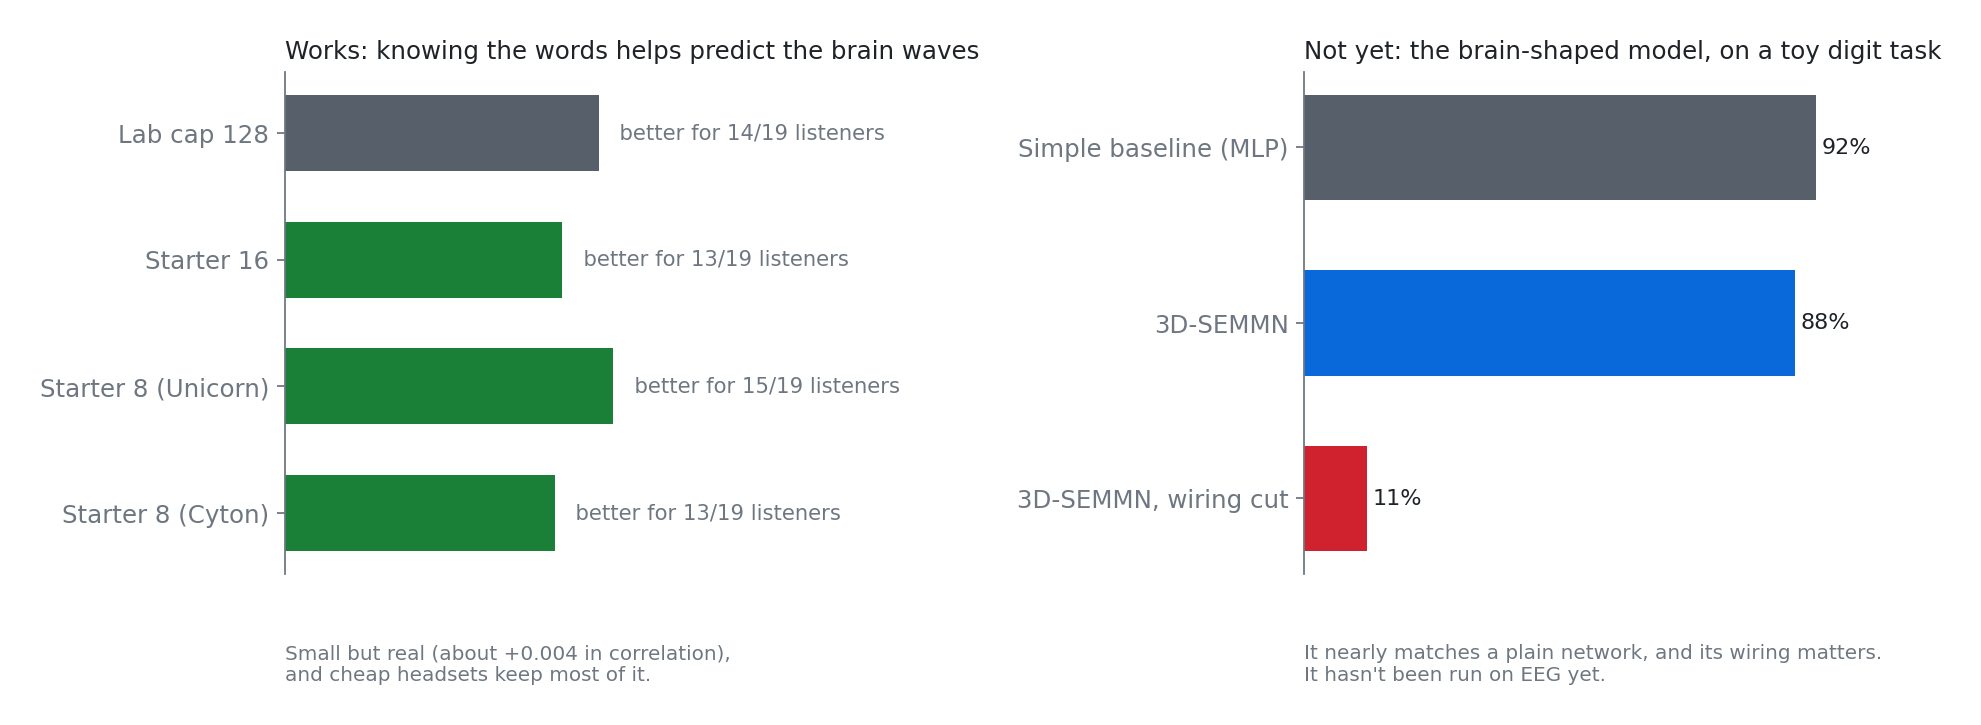
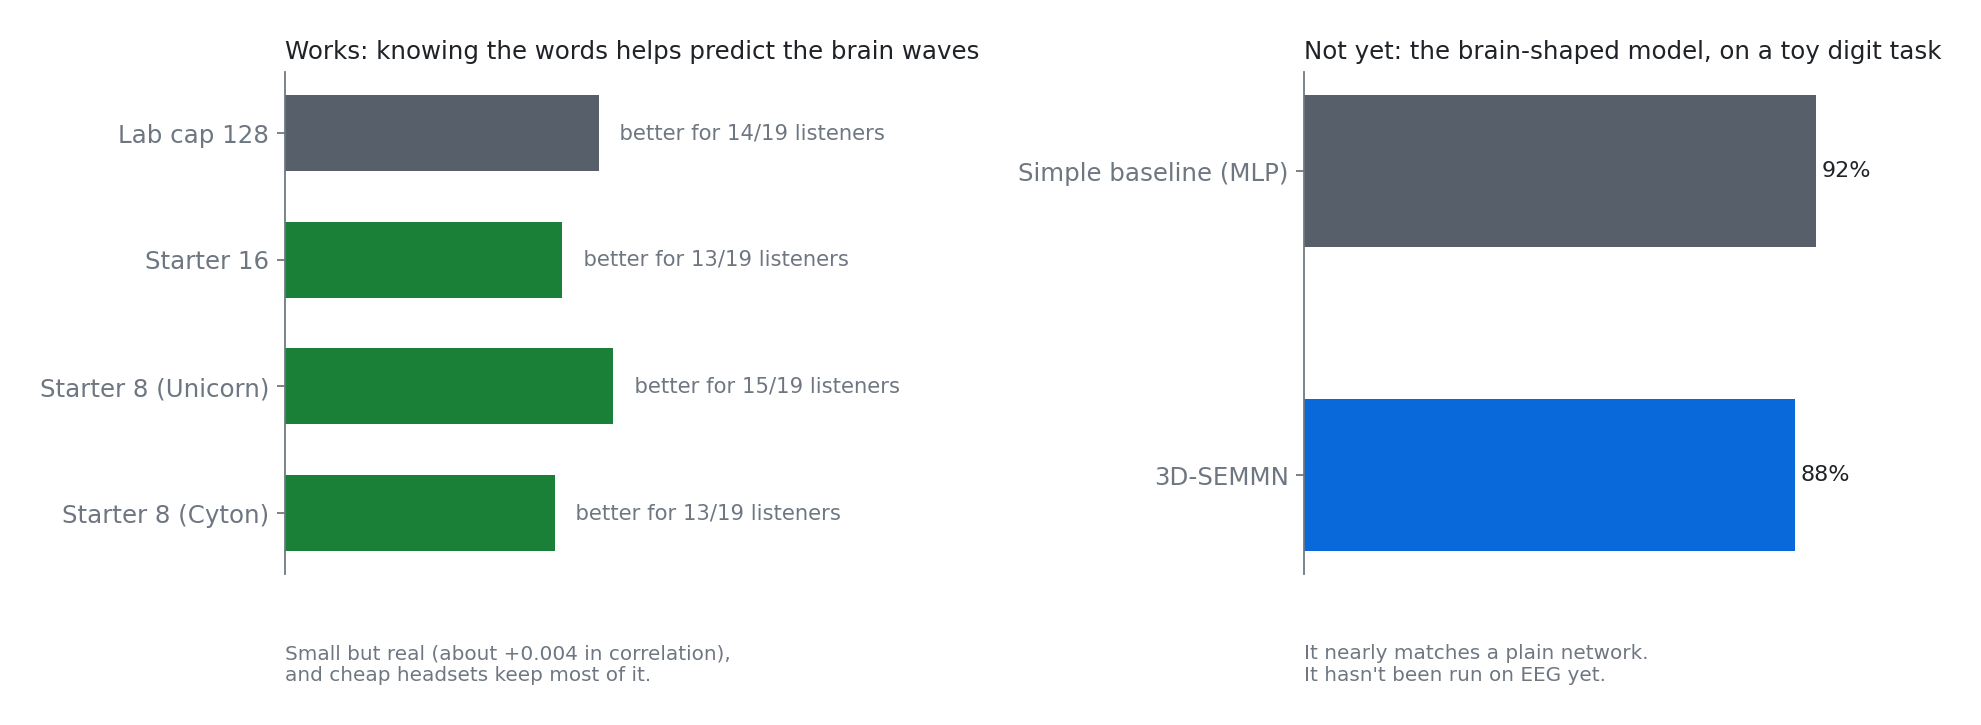
Results So Far: drop the wiring-cut bar (#7)

diff --git a/make_figures.py b/make_figures.py
@@ -487,18 +487,17 @@ def fig_scoreboard() -> None:
             transform=ax.transAxes, fontsize=9, color=MUTED, va="top")
 
     ax2 = fig.add_axes([0.66, 0.2, 0.3, 0.56])
-    rows = [("Simple baseline (MLP)", 0.919, "#57606a"), ("3D-SEMMN", 0.881, "#0969da"),
-            ("3D-SEMMN, wiring cut", 0.112, "#cf222e")]
-    ax2.barh(range(3), [r[1] for r in rows], color=[r[2] for r in rows], height=0.6)
+    rows = [("Simple baseline (MLP)", 0.919, "#57606a"), ("3D-SEMMN", 0.881, "#0969da")]
+    ax2.barh(range(len(rows)), [r[1] for r in rows], color=[r[2] for r in rows], height=0.5)
     for i, r in enumerate(rows):
         ax2.text(r[1] + 0.01, i, f"{r[1]:.0%}", va="center", fontsize=10)
-    ax2.set_yticks(range(3), [r[0] for r in rows])
+    ax2.set_yticks(range(len(rows)), [r[0] for r in rows])
     ax2.invert_yaxis()
     ax2.set_xlim(0, 1.12)
     ax2.set_xticks([])
     ax2.spines[["top", "right", "bottom"]].set_visible(False)
     ax2.set_title("Not yet: the brain-shaped model, on a toy digit task", fontsize=11, loc="left")
-    ax2.text(0, -0.14, "It nearly matches a plain network, and its wiring matters.\nIt hasn't been run on EEG yet.",
+    ax2.text(0, -0.14, "It nearly matches a plain network.\nIt hasn't been run on EEG yet.",
              transform=ax2.transAxes, fontsize=9, color=MUTED, va="top")
     save(fig, "08_scoreboard")
 

diff --git a/docs/superpowers/specs/2026-11-25-readme-visuals-brain-overlay-design.md b/docs/superpowers/specs/2026-11-25-readme-visuals-brain-overlay-design.md
@@ -47,7 +47,7 @@ Date: 2026-11-25. Status: built the same day (Marcus asked to see the pictures d
 | F4 | From electrodes to brain networks to columns | Illustration (built from the planned mapping) | Lines from each starter electrode to the brain networks closest beneath it, with thicker lines for closer regions. Those networks are then linked to the columns they feed. | Every electrode hears the whole brain a little. Real sensitivity is blurry, and this shows only the strongest share. |
 | F5 | How words show up in brain waves | Measured | (a) A sentence timeline with each word's surprise (from the LM features) and its word-vector "meaning" as a colour strip. (b) The measured N400 dip: the word-feature response at 300 to 500 ms, mean ± spread over 19 subjects, for the 128-channel cap and each starter headset. | Averaged over people and words; any single word's response is buried in noise. |
 | F6 | From 100 columns to a small meaning map | Illustration | Column activity (100 values) folding down into a curved low-dimensional sheet (the manifold), with points coloured by category. | The repository's manifold is from the toy audio-visual digit task, not EEG language data. |
-| F7 | Honest scoreboard | Measured | Plain bars. What works so far: word features add prediction, and the N400 is found with 8 channels. Once P4 is on main, also: true words outrank LLM distractors more than shuffled EEG does. What doesn't yet: on the toy task SEMMN scores 0.88 ± 0.13 over seeds against 0.92 for a plain MLP, and it collapses to 0.11 when its connections are cut (`outputs/eval-small/results.md`). | Effect sizes are small, and the captions say how small in plain words. |
+| F7 | Honest scoreboard | Measured | Plain bars. What works so far: word features add prediction, and the N400 is found with 8 channels. Once P4 is on main, also: true words outrank LLM distractors more than shuffled EEG does. What doesn't yet: on the toy task SEMMN scores 0.88 ± 0.13 over seeds against 0.92 for a plain MLP (`outputs/eval-small/results.md`). The wiring-cut lesion result was left out at Marcus's request (11-25). | Effect sizes are small, and the captions say how small in plain words. |
 
 ## Approaches considered
 
